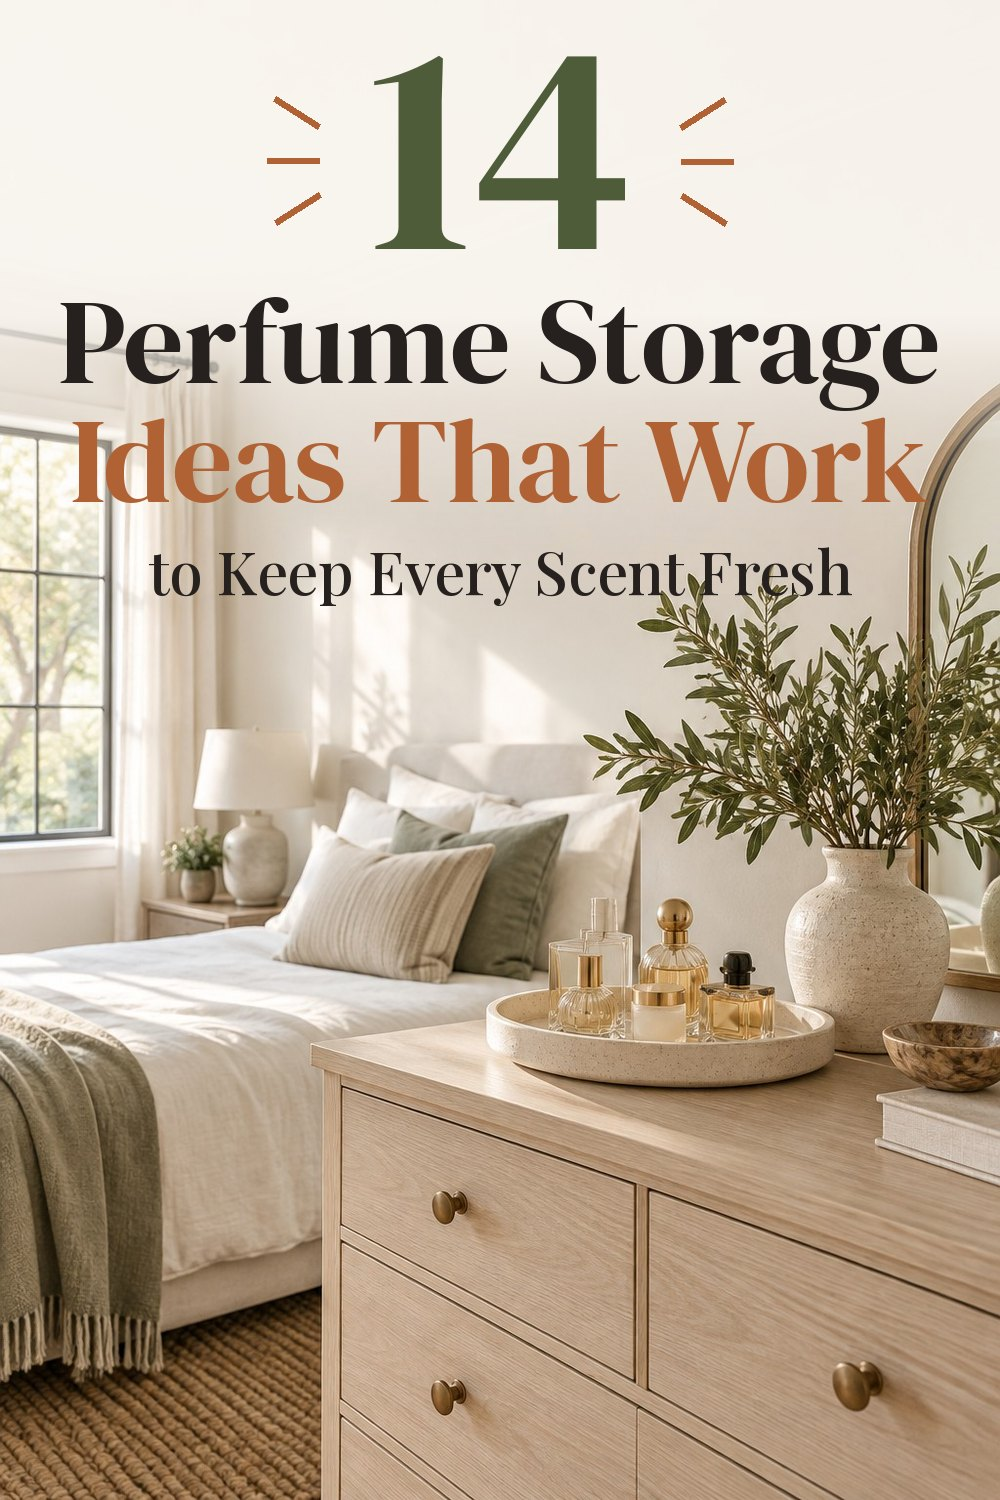
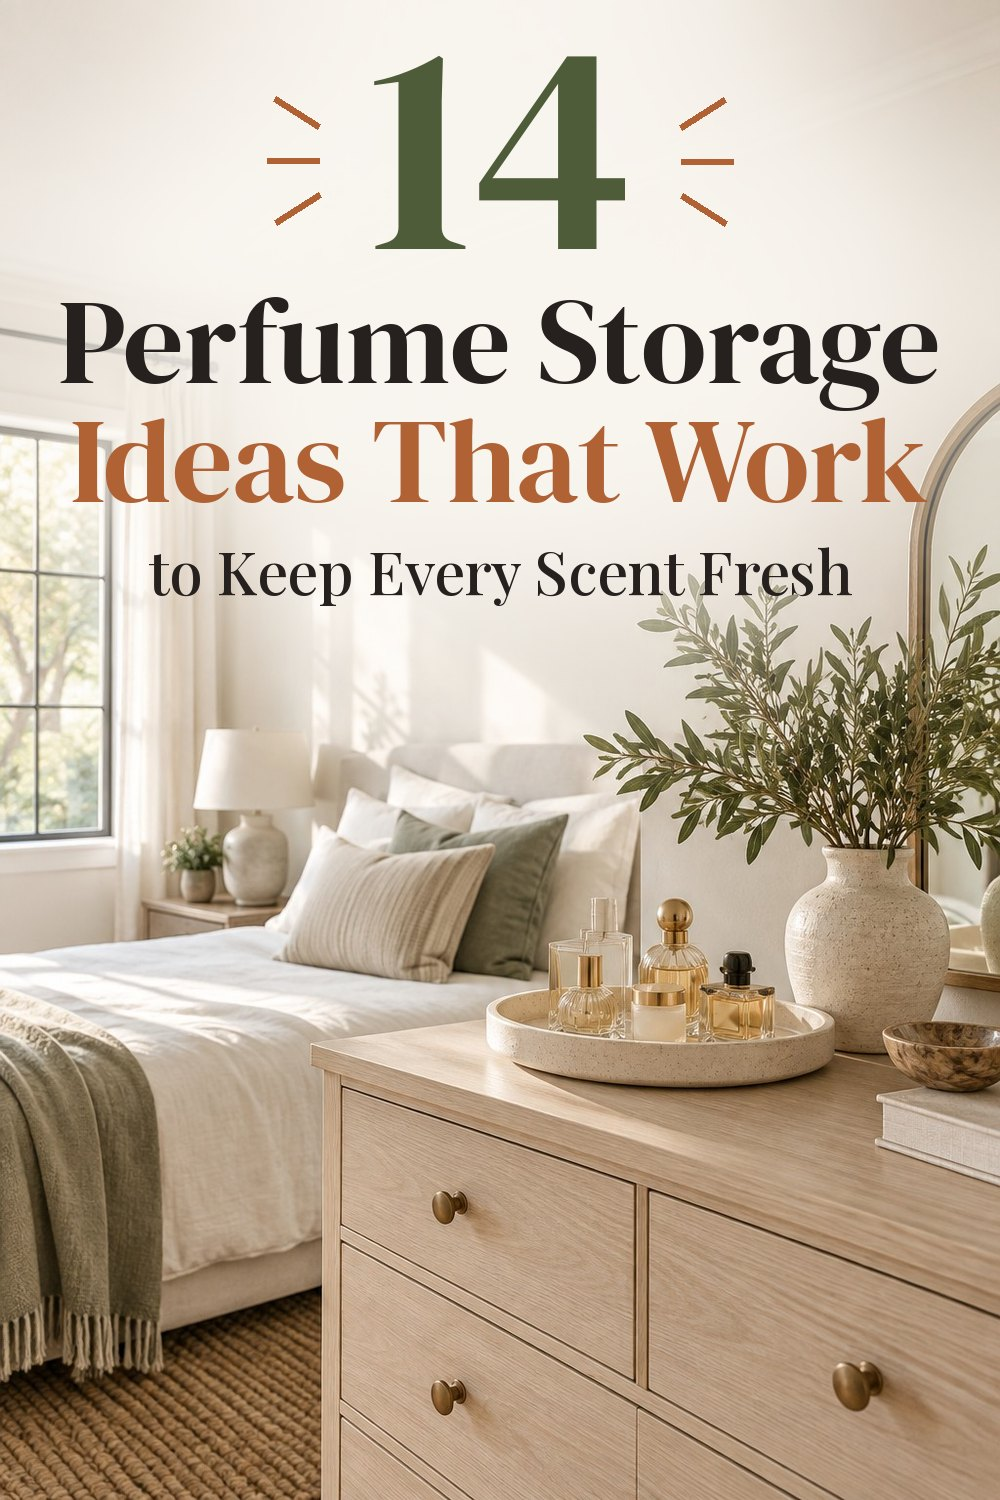
Template H: top-center soft glow instead of full-width fade
Claude-Session: https://claude.ai/code/session_019hXLtVJvrLQpT5KH1iUZZC

diff --git a/pinh.py b/pinh.py
@@ -16,10 +16,12 @@ def pin_h(src,num,l1,l2,sub,out,anchor=0.5,fade=0.52,top=(252,249,244)):
     im=Image.open(src).convert("RGB")
     r=max(W/im.width,H/im.height); im=im.resize((round(im.width*r),round(im.height*r)),Image.LANCZOS)
     x=(im.width-W)//2; y0=int((im.height-H)*anchor); im=im.crop((x,y0,x+W,y0+H)).convert("RGBA")
-    ov=Image.new("RGBA",(W,H)); od=ImageDraw.Draw(ov); fh=int(H*fade)
-    for y in range(fh):
-        t=y/fh; a=0.88 if t<0.5 else 0.88*(1-((t-0.5)/0.5))**2
-        od.line([(0,y),(W,y)],fill=top+(int(255*a),))
+    from PIL import ImageFilter
+    m=Image.new("L",(W,H),0); md=ImageDraw.Draw(m)
+    cy=int(H*0.20); rx=int(W*0.50); ry=int(H*0.24)
+    md.ellipse([W//2-rx,cy-ry,W//2+rx,cy+ry],fill=int(255*0.90))
+    m=m.filter(ImageFilter.GaussianBlur(90))
+    ov=Image.new("RGBA",(W,H),top+(0,)); ov.putalpha(m)
     im=Image.alpha_composite(im,ov); d=ImageDraw.Draw(im); cx=W//2
     OL=(78,92,58); DK=(38,33,30); TC=(176,98,52)
     fn=dm(300); bb=d.textbbox((0,0),num,font=fn,anchor="ls"); nw=bb[2]-bb[0]; nh=bb[3]-bb[1]
